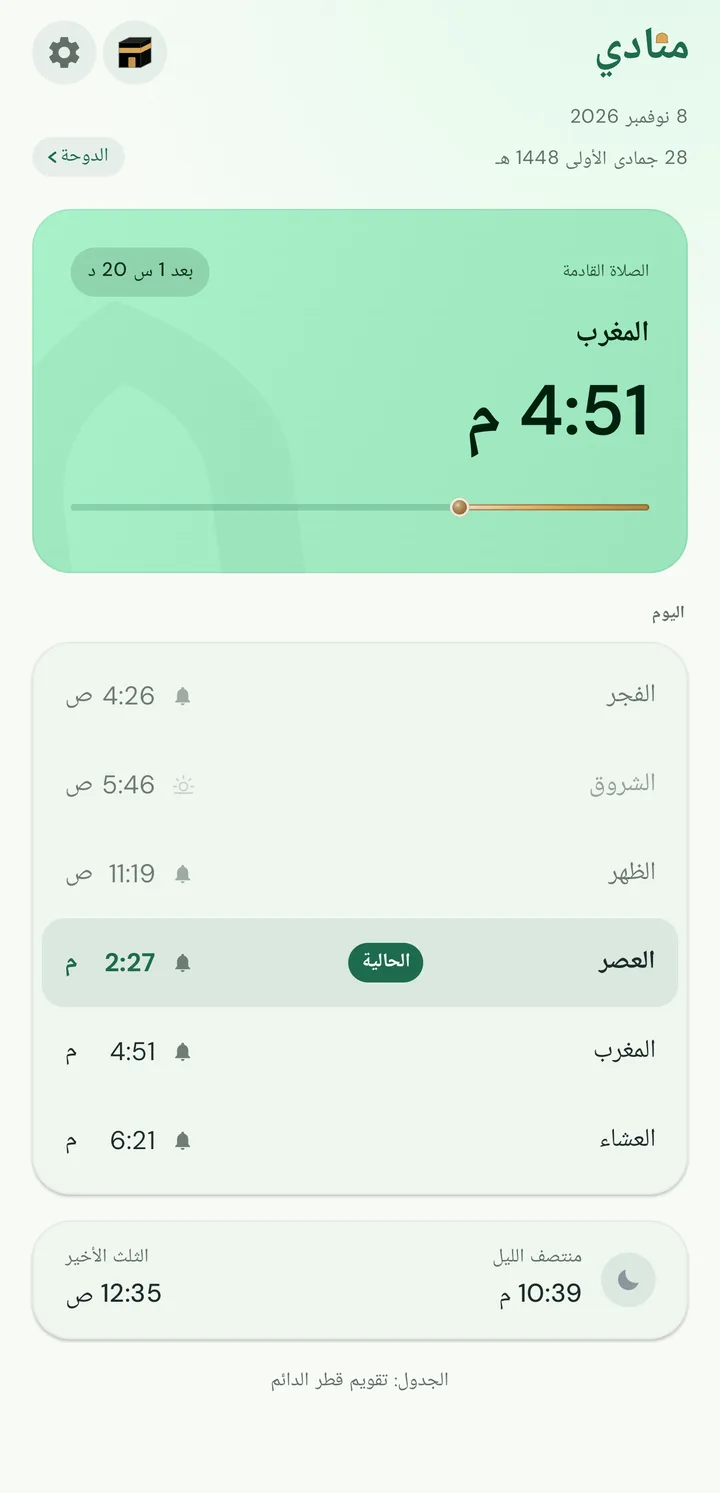
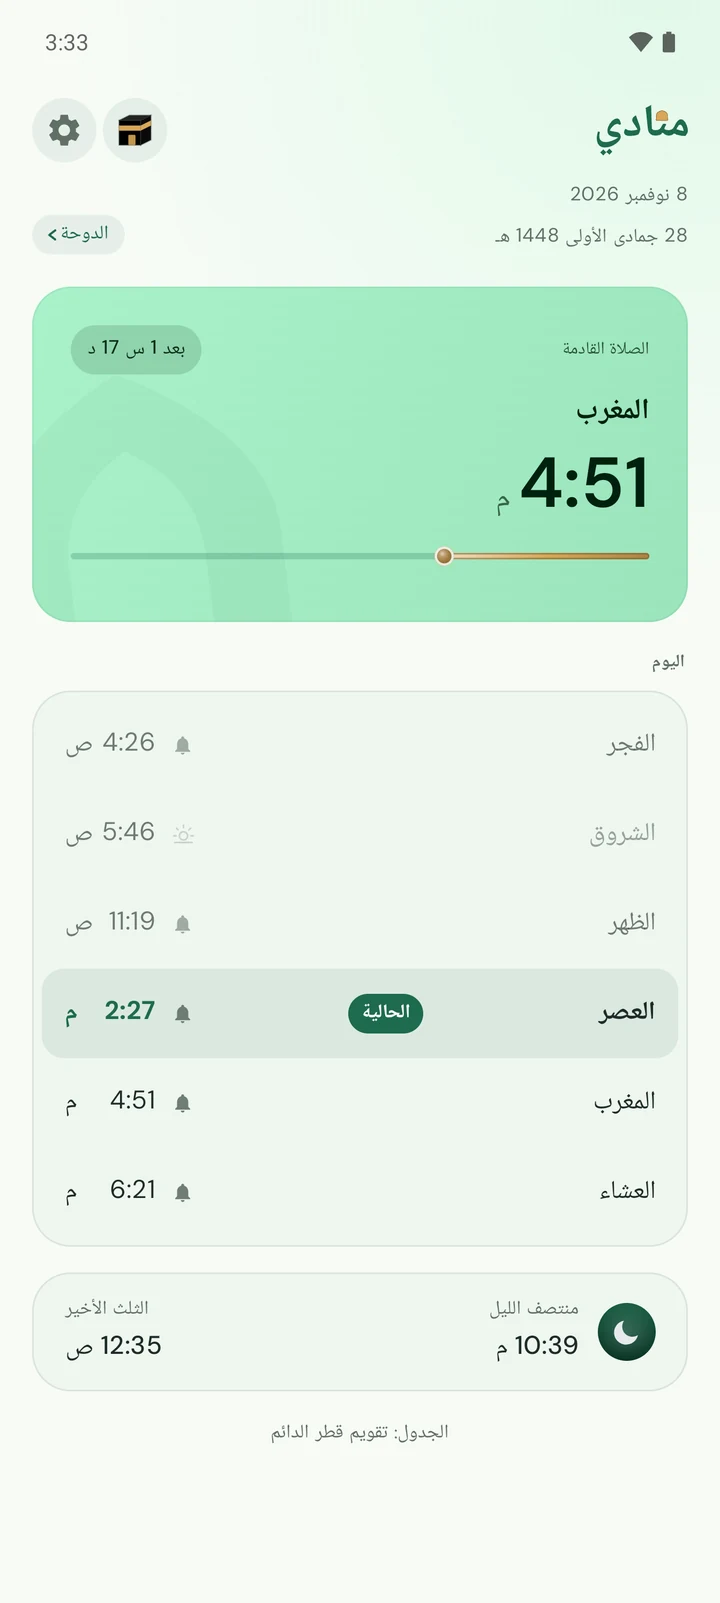
Show a clean status bar and camera in the site's phone mocks
Recapture the home and Qibla screenshots (English and Arabic) from the
emulator in SystemUI demo mode, so the status bar shows only 3:33,
Wi-Fi and a full battery. Keep the full 1344x2992 screen with the
gesture handle painted out, update the frame to 720/1603 and add a
centred punch-hole camera.

diff --git a/src/styles/global.css b/src/styles/global.css
@@ -570,7 +570,7 @@ summary {
   --phone-shadow: 0 22px 48px rgba(8, 20, 14, 0.2);
   position: relative;
   width: 100%;
-  aspect-ratio: 720 / 1493;
+  aspect-ratio: 720 / 1603;
   padding: 6px;
   /* Layered like real hardware: dark hairline, metal rim, black bezel. */
   border: 3px solid transparent;
@@ -608,6 +608,7 @@ summary {
 }
 
 .phone-screen {
+  position: relative;
   width: 100%;
   height: 100%;
   overflow: hidden;
@@ -619,6 +620,21 @@ summary {
   width: 100%;
   height: 100%;
   object-fit: cover;
+}
+
+/* Punch-hole camera, centred in the status bar like the Pixel the
+   screenshots come from. */
+.phone-screen::after {
+  content: '';
+  position: absolute;
+  top: 2.1%;
+  left: 50%; /* physical, so it stays centred in RTL too */
+  width: 3.4%;
+  aspect-ratio: 1;
+  border-radius: 50%;
+  background: radial-gradient(circle at 35% 35%, #2a3430, #050807 62%);
+  box-shadow: 0 0 0 1px rgba(255, 255, 255, 0.06);
+  transform: translateX(-50%);
 }
 
 /* Trust strip */
